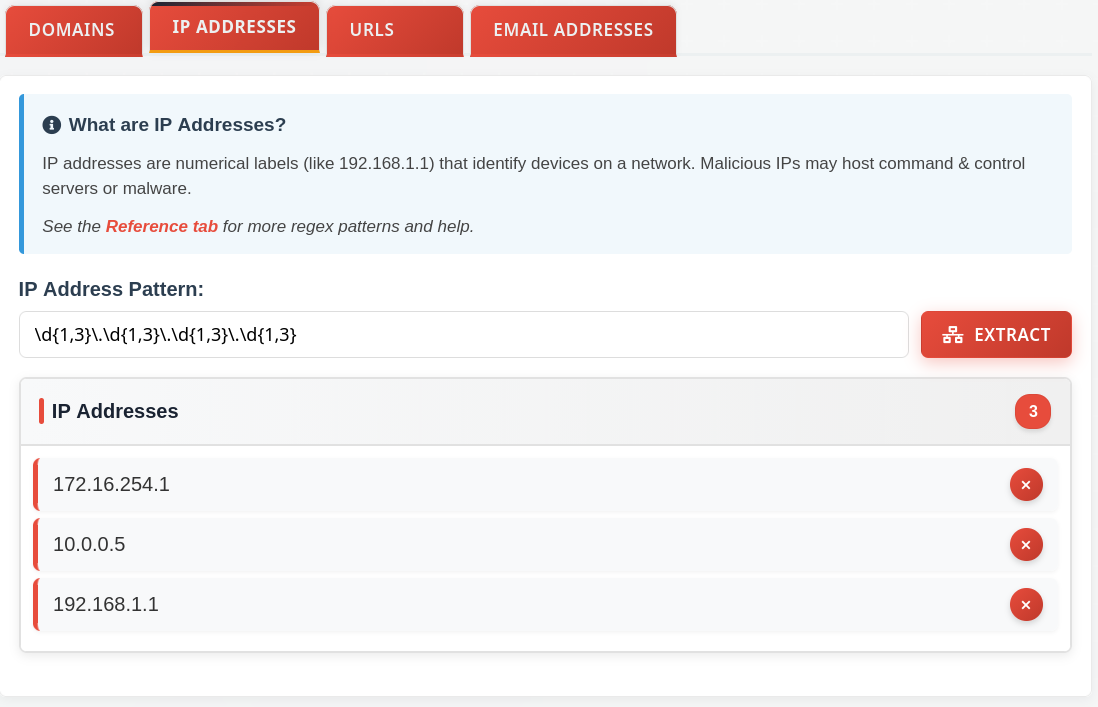
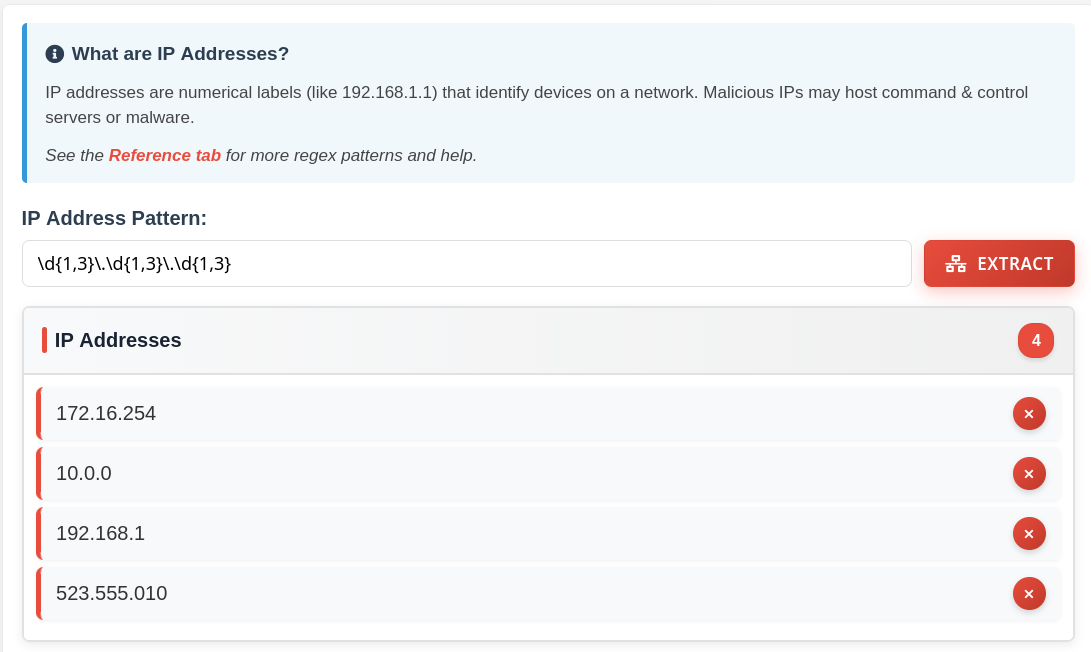
mobile updates

diff --git a/docs/objectives/o2.md b/docs/objectives/o2.md
@@ -4,7 +4,7 @@ icon: material/code-block-tags
 
 # It's All About Defang
 
-**Difficulty**: :fontawesome-solid-star:{ .red }:fontawesome-regular-star::fontawesome-regular-star::fontawesome-regular-star::fontawesome-regular-star:<br/>
+**Difficulty**: :fontawesome-solid-snowflake:{ .red }:fontawesome-regular-snowflake::fontawesome-regular-snowflake::fontawesome-regular-snowflake::fontawesome-regular-snowflake:<br/>
 
 ![Ed's Office](../img/objectives/o2/defang.png)
 
@@ -74,51 +74,95 @@ The terminal link opens the *Dosis Neighborhood SOC* displaying an email and ste
 
     P.S. - Has anyone else noticed their kitchen cabinets mysteriously rearranging themselves overnight? We can fix that with proper smart storage solutions!
 
-!!! question "Extract IOCs"
+### Step 1: Extract IOCs
+
+!!! danger "Extract IOCs"
     This phishing email may be connected to the mysterious Gnome activities reported throughout our neighborhood! Extracting IOCs (Indicators of Compromise) is essential to protect the Counter Hack Crew and identify the threat actors behind this campaign. Your mission:
 
-    [ ] Extract all suspicious **domains**, **IPs**, **URLs**, and **email address**.
+    - [ ] Extract all suspicious **domains**, **IPs**, **URLs**, and **email address**.
 
-PTAS has seperated each objective into a seperate tab, ++"DOMAIN"++, ++"IP ADDRESSES"++, ++"URLS"++, and ++"EMAIL ADDRESSES"++
+PTAS has seperated each objective into a seperate tab, [++"DOMAIN"++](#domains), [++"IP ADDRESSES"++](#ip-addresses), [++"URLS"++](#urls), and [++"EMAIL ADDRESSES"++](#email-addresses)
 
-### Domains
+#### Domains
 
 To search the email for domains, we need a regex pattern that will find web addresses in the email.
 
 ??? tip "What are Domains?"
     Domains are human-readable web addresses (like example.com) that map to IP addresses. They often indicate the source or destination of malicious activity.
 
-In the informatinal blurb about what a domain is, there is also a link to the reference tab (seen below) that provides some useful RegEx commands as well as resource links. Under "Common IOC patterns" can be found a regex pattern for detecting domains, `[a-zA-Z0-9-]+(\.[a-zA-Z0-9-]+)+`. That's exactly what is needed; copying it and pasting in the field returns a bit more than expected though, with a total of 14 domains found.
+In the informatinal blurb about what a domain is, there is also a link to the reference tab (seen below) that provides some useful RegEx commands as well as resource links. Under "Common IOC patterns" can be found a regex pattern for detecting domains, `[a-zA-Z0-9-]+(\.[a-zA-Z0-9-]+)+`. That seems to just what is needed; copy and pasting it in the field returns a bit more than expected though, with a total of 14 domains found.
+
+??? warning "Fine Tuning"
+    If you read the hint provided, "Extract IOCs", you'll see that there is a warning about the PTAS being new and the RegEx patterns provided not all being fine tuned. In this case, that means needing to remove some of the findings. For other IOCs such as **IP Addresses**, it is necessary to adjust the RegEx Pattern.
 
 ![Domains found](../img/objectives/o2/domains.png)
 
-Remove those found which are not domains and there should be two domains left. 
+Remove those found which are not domains and there should be left with each domain IOC highlighted and color coded on the phishing email.
 
 ![Highlights](../img/objectives/o2/email_domain.png)
-///caption
-After selecting "Extract" the found IOCs will be highlighted in the email as well.
-///
 
-Go through the other tabs, using the RegEx pattern from the reference tab to find and highlight the **IP ADDRESSES**, **URLS**, & **EMAIL ADDRESSES**. When you select the ++"EXTRACT"++ button, the phishing email will be highlighted with the corresponding color.
+Going through the other tabs with the RegEx pattern from the reference tab as a starting point to find and highlight the **IP ADDRESSES**, **URLS**, & **EMAIL ADDRESSES**. When you select the ++"EXTRACT"++ button, the phishing email will be highlighted with the corresponding color. Afterwards, review the matches and remove any that don't belong.
 
-### IP Addresses
+#### IP Addresses
 
-The RegEx pattern for finding IP Addresses is `\d{1,3}\.\d{1,3}\.\d{1,3}`
+??? info "What are IP Addresses?"
+    IP addresses are numerical labels (like 192.168.1.1) that identify devices on a network. Malicious IPs may host command & control servers or malware.
+
+The RegEx pattern for IP Addresses from the reference tab is `\d{1,3}\.\d{1,3}\.\d{1,3}` but if this pattern is used as is, you'll notice that the values returned do not match the ip addresses correctly. The pattern provided is not quite complete.
 
 ![IP Addresses](../img/objectives/o2/IP_addresses.png)
 
-### URLs
+A more fine tuned pattern will match the final octet, which will provide complete IP addresses without including any false matches and can be done using `\d{1,3}\.\d{1,3}\.\d{1,3}\.\d{1,3}`.
+
+#### URLs
+
+??? info "What are URLs?"
+    URLs are web addresses (like http://example.com/path) that point to specific resources. Malicious URLs often lead to phishing sites or malware downloads.
+
+To find URLs with RegEx use `https://[a-zA-Z0-9-]+(\.[a-zA-Z0-9-]+)+(:[0-9]+)?(/[^\s]*)?`
 
 ![URLS](../img/objectives/o2/urls.png)
 
-### Email Addresses
+#### Email Addresses
+
+??? info "What are Email Addresses?"
+    Email addresses (like user@example.com) identify senders and recipients. In security analysis, they can reveal phishing campaign sources or targets.
+
+Email addresses can be found with `\b[a-zA-Z0-9._%+-]+@[a-zA-Z0-9.-]+\.[a-zA-Z]{2,}\b`
 
 ![email addresses](../img/objectives/o2/emails.png)
 
+After completing each RegEx extraction, the results are highlighted with color coding, a different color for each IOC.
+
+- [x] Extract all suspicious **domains**, **IPs**, **URLs**, and **email address**.
+
 ![Highlighted](../img/objectives/o2/highlighted_email.png)
-///caption
-After completing each RegEx extraction, the results are highlighted with color coding.
-///
+
+!!! warning "Objective Note"
+    A final note on extracting IOCs from the email. Remember that the objective for this step is "Extract all ==suspicious== domains, IPs, URLs, and email addresses". Just because something is a match for the regex pattern that is being used does not necessarily mean that the match is suspicious. A search pattern that matches emails will match both sender and receiver emails. It is the analyst's job to then decide which matches are an indicator of compromise to report, and which are benign aspects of the organization. Only include those indicators that are not legitimate. 
+
+---
+
+### Step 2: Defang & Report
+
+Once all of the Indicators of Compromise have been found and highlighted within the phishing email, it's time to move to step 2, which is to defang the IOCs and report the findings.
+
+!!! info "What is defanging"
+    Defanging is a safety step of preventing indicators of compromise from accidentally being executed by changing or removing parts that break automatic functionality, such as wrapping a period or '@' with brackets (`[.]` & `[@]`). 
+
+!!! warning "Defang IOCs"
+    Defanging IOCs (Indicators of Compromise) is crucial to ensure that malicious content cannot be accidentally activated. This phishing campaign may be connected to the recent Gnome activities! Your mission:
+
+    - [ ] Replace dots/periods with [.]<br/>
+    - [ ] Replace @ in email addresses with [@]<br/>
+    - [ ] Replace http with hxxp in URLs<br/>
+    - [ ] Replace :// with [://] in URLs<br/>
+    - [ ] Submit the defanged IOCs to the Counter Hack <br/>
+    - [ ] Security Team <br/> 
+
+![Defang&Report](../img/objectives/o2/defang_objective.png)
+
+
 
 This section explains the different steps taken to solve the challenge. Try to find a good balance between providing sufficient detail and not overloading the reader with too much information. Use [admonitions](https://squidfunk.github.io/mkdocs-material/reference/admonitions/), [images](https://squidfunk.github.io/mkdocs-material/reference/images/), [diagrams](https://squidfunk.github.io/mkdocs-material/reference/diagrams/), [code blocks](https://squidfunk.github.io/mkdocs-material/reference/code-blocks/), and [tables](https://squidfunk.github.io/mkdocs-material/reference/data-tables/) to highlight and structure important information or provide additional clarification.
 
@@ -129,10 +173,6 @@ This section explains the different steps taken to solve the challenge. Try to f
 
 !!! info "Palm tree lighting tip"
     While on the island, make sure to hang your Christmas lights on a palm tree. It’s not only festive but also a great beacon for Santa to find you!
-
-### Images
-
-
 
 ### Diagrams
 
@@ -178,9 +218,11 @@ fi
 !!! success "Answer"
     Insert the answer to the objective here.
 
+![Report](../img/objectives/o2/IOC_report.png)
+
 ## Response
 
-!!! quote "Insert Character Name"
+!!! quote "Ed Skoudis"
     Well you just made that look like a piece of cake! Though I prefer cookies...I know where to find the best in town!
 
     Thanks again! See ya 'round!
